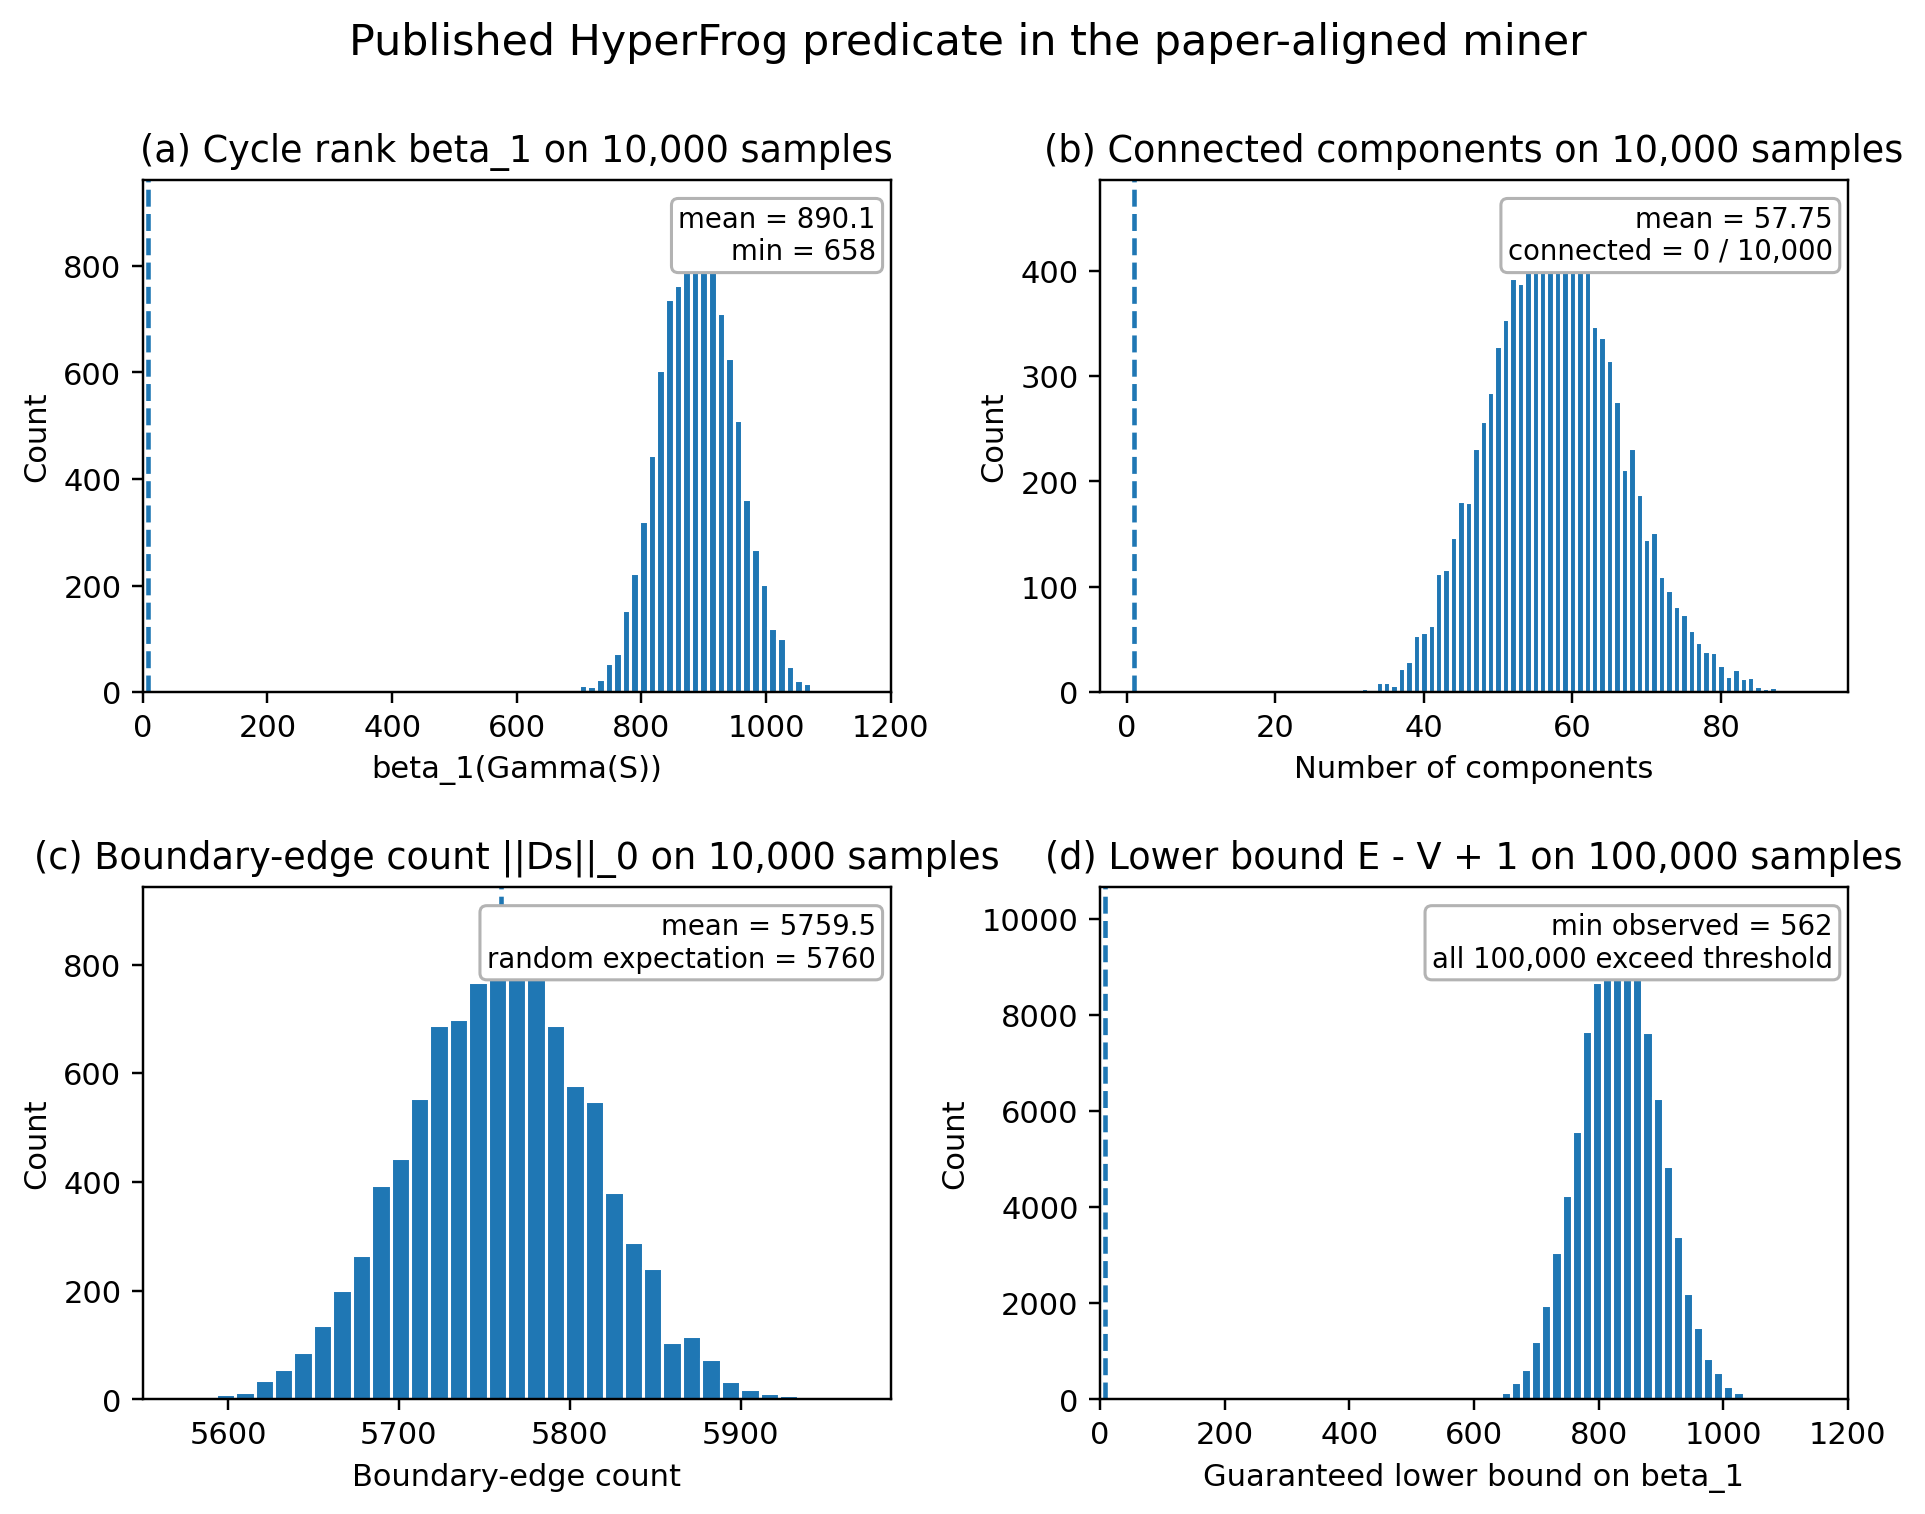
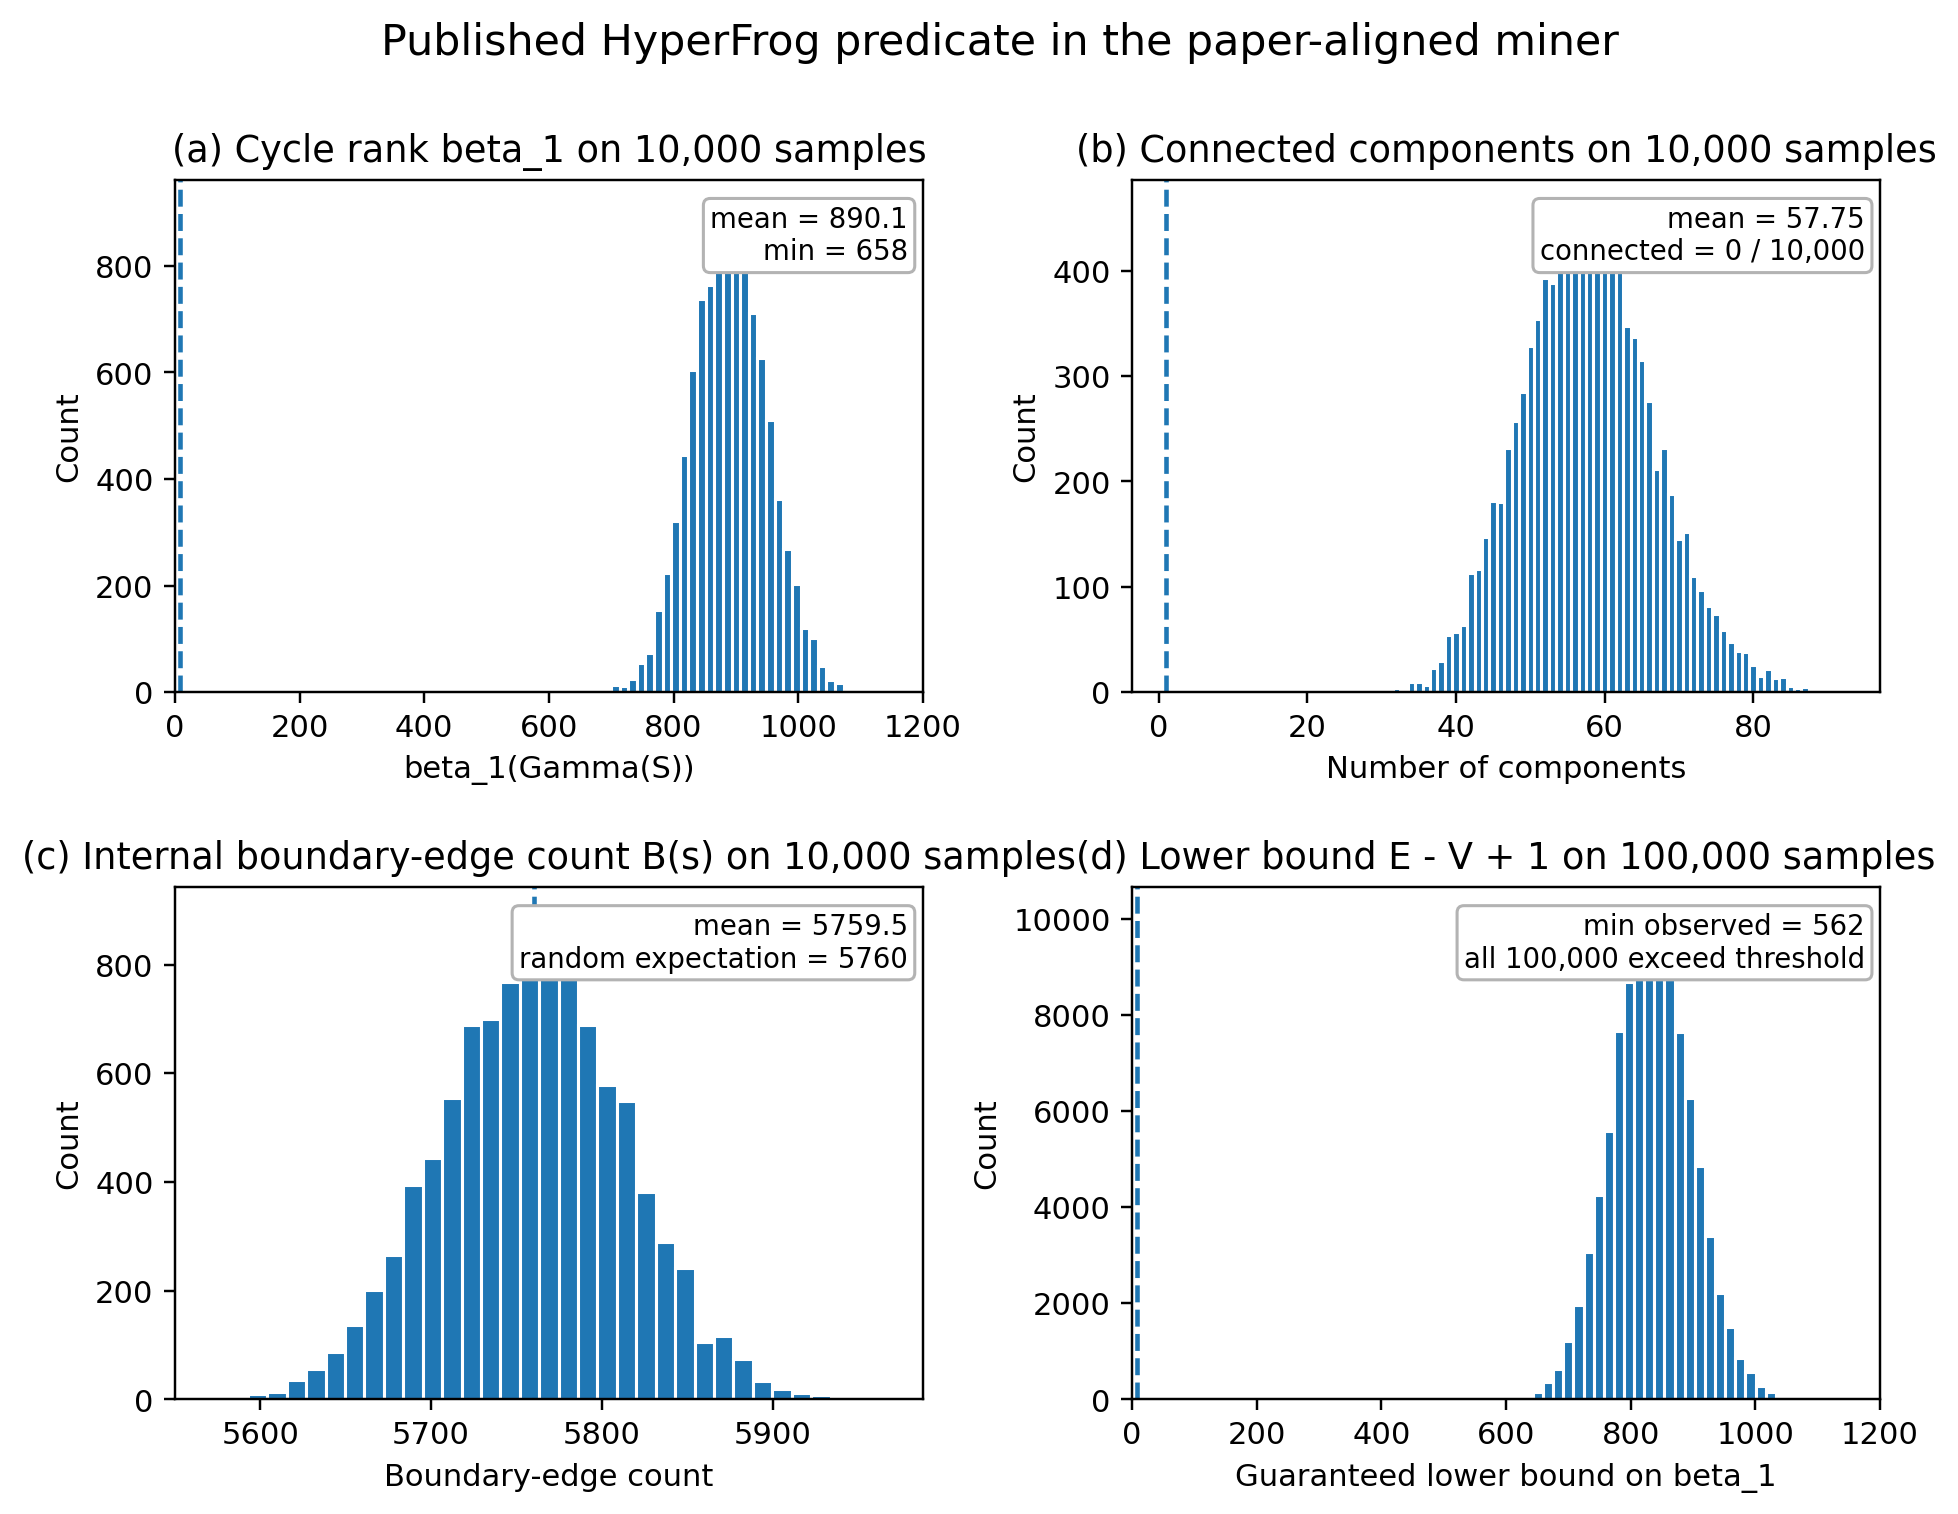
Sync artifacts with revised boundary labeling

diff --git a/hyperfrog_refutation_experiments.py b/hyperfrog_refutation_experiments.py
@@ -119,7 +119,7 @@ def create_figure(bulk_df, topo_df, outpath):
     ax3 = fig.add_subplot(gs[1, 0])
     ax3.hist(topo_df['B'], bins=35, edgecolor='white')
     ax3.axvline(5760, linestyle='--', linewidth=1.5)
-    ax3.set_title('(c) Boundary-edge count ||Ds||_0 on 10,000 samples')
+    ax3.set_title('(c) Internal boundary-edge count B(s) on 10,000 samples')
     ax3.set_xlabel('Boundary-edge count')
     ax3.set_ylabel('Count')
     ax3.text(0.98, 0.95, f"mean = {topo_df['B'].mean():.1f}\nrandom expectation = 5760", transform=ax3.transAxes,
